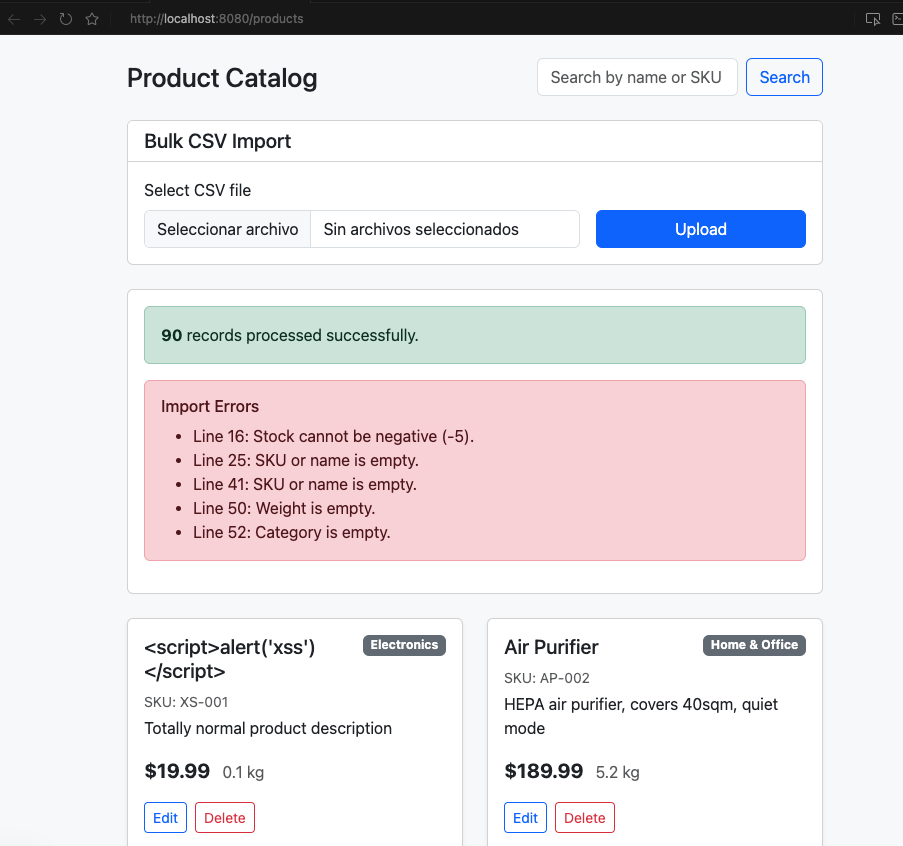
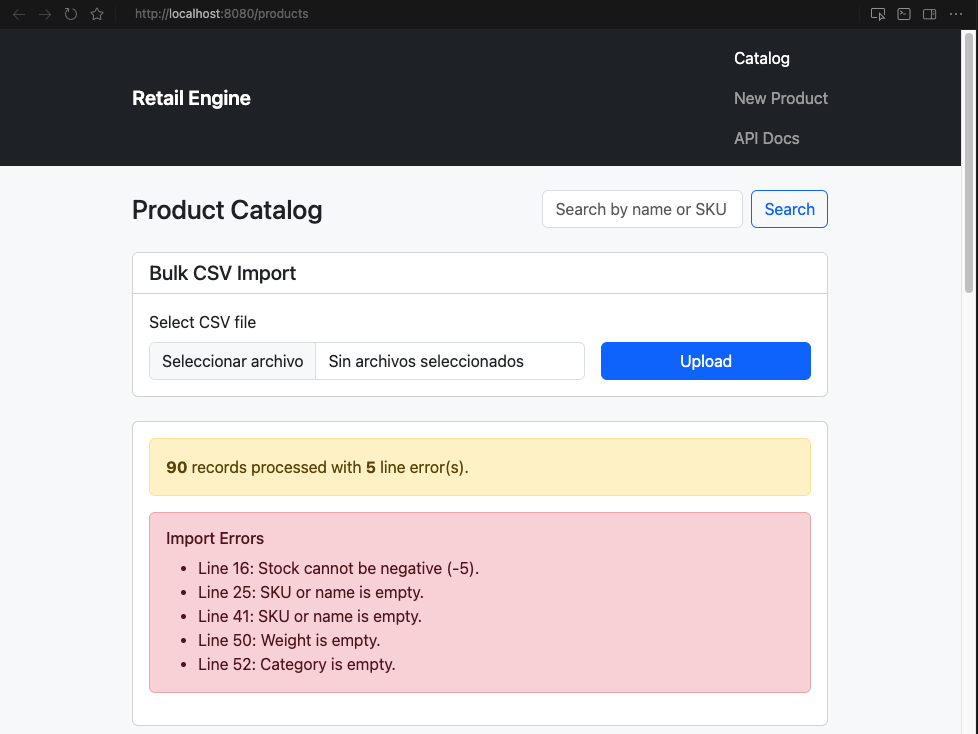
docs: scale test documentation metadata to 57 scenarios and attach complete UI validation workflow assets

diff --git a/README.md b/README.md
@@ -117,9 +117,9 @@ All business operations are exposed through a single versioned controller. The U
 | `GET` | `/api/v1/products` | List or search the catalog | Optional query `?search=` (name or SKU, case-insensitive partial match), `?page=` (default `0`), `?size=` (default `12`, max `100`). Returns a Spring Data `Page` JSON payload (`content`, `totalElements`, `totalPages`, etc.). |
 | `GET` | `/api/v1/products/{id}` | Retrieve a single product by primary key | Returns `Product` JSON. `404` if not found. |
 | `POST` | `/api/v1/products` | Create a new product | JSON body (`ProductRequest`). Returns `201 Created` with the persisted entity. |
-| `PUT` | `/api/v1/products/{id}` | Update product metadata in place | JSON body (`ProductRequest`). Updates name, description, category, price, stock, and weight. The edit UI treats **SKU as immutable** (read-only field) to preserve catalog identity across integrations. |
+| `PUT` | `/api/v1/products/{id}` | Update product metadata in place | JSON body (`UpdateProductRequest` — no `sku` field). Updates name, description, category, price, stock, and weight. SKU is immutable after creation. |
 | `DELETE` | `/api/v1/products/{id}` | Remove a product from the catalog | Returns a success message. `404` if not found. `409` if the product has existing purchase history in `order_items`. |
-| `POST` | `/api/v1/products/import` | Bulk CSV ingestion pipeline | `multipart/form-data` with a `file` field. Returns processed count and line-level errors. Upserts by SKU. |
+| `POST` | `/api/v1/products/import` | Bulk CSV ingestion pipeline | `multipart/form-data` with a `file` field (max **10 MB**). Returns processed count and line-level errors. Upserts by SKU. |
 | `POST` | `/api/v1/products/purchase` | Simulated checkout / stock decrement | JSON body `{ "productId": number, "quantity": number }`. Returns order confirmation or `409 Conflict` when stock is insufficient. |
 
 **Interactive documentation:** http://localhost:8080/swagger-ui.html
@@ -226,7 +226,8 @@ The ingestion service (`DefaultCsvImportService`) utilizes **Apache Commons CSV*
 * **Upsert Idempotency:** If an imported SKU already exists in the database, it behaves as an *Update* instead of duplicating data.
 * **Per-row transactions:** Each persisted row runs in `@Transactional(propagation = REQUIRES_NEW)` so a database failure on one line cannot roll back previously committed valid rows.
 * **Data Cleansing:** Removes currency symbols (`$29.99` → `29.99`), interprets `"free"` as zero price, and ignores blank rows.
-* **Partial Fault Tolerance:** Invalid rows are skipped with line-level error reporting; valid rows continue processing.
+* **Partial Fault Tolerance:** Invalid rows are skipped with line-level error reporting; valid rows continue processing. The catalog UI uses a **warning** summary when both processed rows and line errors are present.
+* **Upload size limits:** `spring.servlet.multipart.max-file-size=10MB` and `max-request-size=10MB` reject oversized uploads at the Tomcat layer before the CSV pipeline runs, mitigating accidental or malicious large-file DoS against the container.
 * **XSS and SQL Injection Defense:** Parameterized JPA queries, JSON API responses, and client-side `escapeHtml()` when rendering catalog cards mitigate injection vectors from dirty CSV data.
 
 ---
@@ -441,7 +442,7 @@ The catalog experience is **REST-first and asynchronous**: the browser never pos
 
 1. On the catalog page (`/products`), open the **Bulk CSV Import** card.
 2. Select any product CSV (e.g. `sample-products.csv`) and click **Upload**.
-3. The client posts `multipart/form-data` to `POST /api/v1/products/import`. An inline result card renders the JSON response (processed count + line errors), then the grid reloads via `GET /api/v1/products` — all without leaving the page.
+3. The client posts `multipart/form-data` to `POST /api/v1/products/import`. An inline result card renders the JSON response (processed count + line-level errors). Imports with partial failures show a **warning** summary plus a detailed error list; fully successful imports show a green success summary. The grid then reloads via `GET /api/v1/products` — all without leaving the page.
 
 ![Bulk CSV import result — processed count and line-level error report inline on the catalog page](docs/diagrams/bulk-result.png)
 
@@ -461,10 +462,14 @@ The catalog experience is **REST-first and asynchronous**: the browser never pos
 3. On `200 OK`, a dismissible alert renders the JSON message and the grid refreshes from the API so stock badges reflect the new state.
 4. On insufficient stock, the error payload surfaces as an alert — inventory is never mutated client-side.
 
+![Purchase completed — success alert and refreshed stock badge after `POST /api/v1/products/purchase`](docs/diagrams/purchase.png)
+
 ### Step 4: Product Management (CRUD)
 
 1. **Create:** the form at `/products/new` submits `POST /api/v1/products` with a JSON body. Validation errors (`400`) map field-by-field from the API response.
-2. **Read / Update:** the edit shell at `/products/{id}/edit` loads the entity via `GET /api/v1/products/{id}` and persists changes with `PUT /api/v1/products/{id}` (SKU field read-only).
+
+![Create Product form — field-level validation surfaced inline before submit](docs/diagrams/product-creation.png)
+2. **Read / Update:** the edit shell at `/products/{id}/edit` loads the entity via `GET /api/v1/products/{id}` and persists mutable fields with `PUT /api/v1/products/{id}` using `UpdateProductRequest` (no `sku` in the JSON body; SKU remains read-only in the form).
 
 ![Edit Product form — SKU displayed as read-only while mutable catalog fields are editable](docs/diagrams/edit-product.png)
 